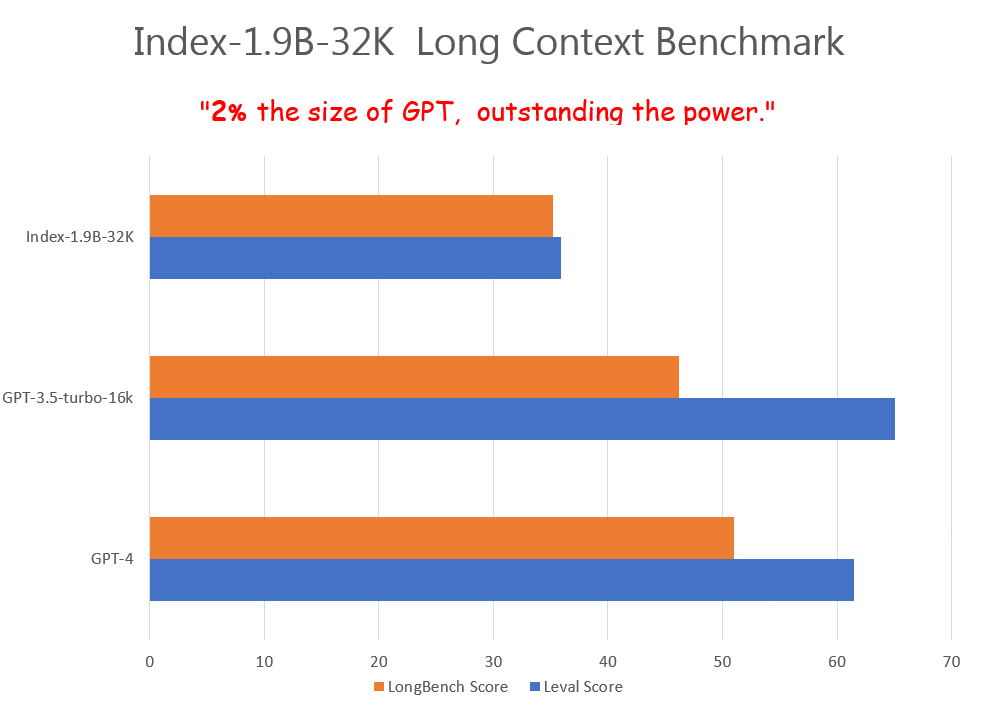
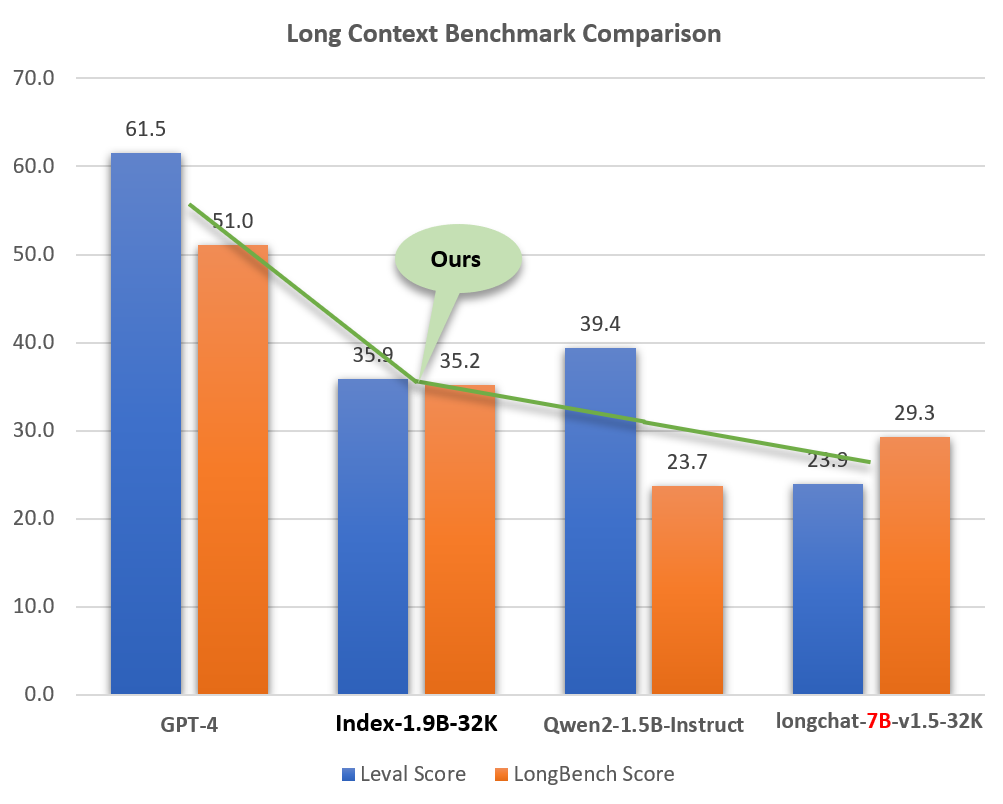
Modify the content related to Long Context (#33)
(1/4) Open-source Index-1.9B-32K; (2/4) Add Index-1.9B-32K_Long_Context_Technical_Report.md; (3/4) Upgrade and add Long Context evaluation code; (4/4) Add Demo tool for long text translation and summarization.

diff --git a/Index-1.9B-32K_Long_Context_Technical_Report.md b/Index-1.9B-32K_Long_Context_Technical_Report.md
@@ -16,12 +16,12 @@
 
 Index-1.9B-32K is a language model with only 1.9 billion parameters, yet it supports a context length of 32K (meaning this extremely small model can read documents of over 35,000 words in one go). The model has undergone Continue Pre-Training and Supervised Fine-Tuning (SFT) specifically for texts longer than 32K tokens, based on carefully curated long-text training data and self-built long-text instruction sets. The model is now open-source on both Hugging Face and ModelScope.
 
-Despite its small size (about 2% of models like GPT-4), Index-1.9B-32K demonstrates excellent long-text processing capabilities. Below are comparison results with GPT-4 and GPT-3.5-turbo-16k:
-<p align="center">
-    <img src="media/pk-all.png" alt="" width="800">
-</p>
-<p align="center"><strong> Comparison of Index-1.9B-32K with GPT-4 and other models in long-text capability</strong></p>
+Despite its small size (about 2% of models like GPT-4), Index-1.9B-32K demonstrates excellent long-text processing capabilities. 
+As shown in the figure below, our 1.9B-sized model's score even surpasses that of the 7B-sized model. Below is a comparison with models like GPT-4 and Qwen2:
 
+<p align="center"> <img src="media/pk-all.png" alt="" width="800"> 
+</p> <p align="center"><strong>Comparison of Index-1.9B-32K with GPT-4, Qwen2, and other models in Long Context capability</strong>
+</p>
 
 ## Model and Code Download:
 - Huggingface: <https://huggingface.co/IndexTeam/Index-1.9B-32K>
@@ -143,24 +143,16 @@ We built a long-text pre-training corpus based on our self-constructed massive c
 <p align="center"><strong> NeedleBench Evaluation</strong></p>
 
 
-### LongBench
-- The score of Index-1.9B-32K in the LongBench evaluation is 35.23, and the comparison with GPT-4 and GPT-3.5-turbo-16k is shown below. 
+### LongBench & LEval
+- The score of Index-1.9B-32K in the LongBench evaluation is 35.23, The score of LEval evaluation is 35.86. 
 - LongBench Introduction: [LongBench](https://github.com/THUDM/LongBench) is a long-text dataset built by THUDM, consisting of 21 sub-tasks and 4750 test cases in total. It is the first bilingual long-text dataset in Chinese and English, with an average text length of 6711 words for English and 13386 characters for Chinese.
-
-<p align="center">
-    <img src="media/longbench-pk.png" alt="" width="700">
-</p>
-<p align="center"><strong>LongBench Evaluation</strong></p>
-
-
-### LEval
-- The score of Index-1.9B-32K in the LEval evaluation is 35.86, and the comparison with GPT-4 and GPT-3.5-turbo-16k is shown below. 
 - LEval Introduction: [LEval](https://github.com/OpenLMLab/LEval) is a long-text dataset built by OpenLMLab, consisting of 18 sub-tasks in areas such as law, economics, and science.
+- As shown in the figure below, our 1.9B-sized model's score even surpasses that of the 7B-sized model. Below is a comparison with models like GPT-4 and Qwen2:
 
-<p align="center">
-    <img src="media/leval.png" alt="" width="700">
+<p align="center"> <img src="media/pk-all.png" alt="" width="800"> 
+</p> <p align="center"><strong>Comparison of Index-1.9B-32K with GPT-4, Qwen2, and other models in Long Context capability</strong>
 </p>
-<p align="center"><strong> LEval Evaluation</strong></p>
+
 
 
 ## Alignment Evaluation and Short-Text Capability
@@ -232,69 +224,74 @@ We noticed in the LLaMA 3 paper that they only used 1‰ long instructions for f
 
 ## LEval
 
-The detailed scores are shown in the table below, and the scores of GPT-4 and GPT-3.5-turbo-16k are sourced from 
+The detailed scores are shown in the table below
+- The scores for GPT-4 and longchat-7b-v1.5-32k are taken from 
 [here](https://opencompass.readthedocs.io/zh-cn/latest/advanced_guides/longeval.html#l-eval)
+- The scores for Index-1.9B-32K and Qwen2-1.5B-Instruct are based on our runs using opencompass.
 
-| **dataset**             | **Index-1.9B-32K** | **GPT-4**   | **GPT-3.5-turbo-16k** |
-|-------------------------|--------------------|-------------|-----------------------|
-| **LEval Exact Match**    | **41.54**          | **81.434**  | **68.984**            |
-| LEval_coursera           | 41.28              | 61.05       | 50                    |
-| LEval_gsm100             | 27                 | 92          | 78                    |
-| LEval_quality            | 50                 | 81.19       | 62.87                 |
-| LEval_tpo                | 65.43              | 72.93       | 74.72                 |
-| LEval_topic_retrieval    | 24                 | 100         | 79.33                 |
-| **LEval Gen (ROUGE)**    | **30.17**          | **41.539**  | **41.279**            |
-| LEval_financialqa        | 39.97              | 53.49       | 50.32                 |
-| LEval_gov_report_summ    | 40.77              | 50.84       | 50.48                 |
-| LEval_legal_contract_qa  | 14.02              | 31.23       | 27.97                 |
-| LEval_meeting_summ       | 28.54              | 31.44       | 33.54                 |
-| LEval_multidocqa         | 22.91              | 37.81       | 35.84                 |
-| LEval_narrativeqa        | 15.87              | 25.87       | 25.73                 |
-| LEval_nq                 | 49.02              | 67.36       | 66.91                 |
-| LEval_news_summ          | 27.93              | 34.52       | 40.41                 |
-| LEval_paper_assistant    | 35.35              | 42.26       | 41.76                 |
-| LEval_patent_summ        | 33.6               | 48.61       | 50.62                 |
-| LEval_review_summ        | 25.16              | 31.98       | 33.37                 |
-| LEval_scientificqa       | 34.39              | 49.76       | 48.32                 |
-| LEval_tvshow_summ        | 24.74              | 34.84       | 31.36                 |
-| **Average**              | **35.86**          | **61.49**   | **65.03**             |
+| **Dataset**                        | **Index-1.9B-32K** | **Qwen2-1.5B-Instruct** | **longchat-7b-v1.5-32k** | **GPT-4**   |
+|---------------------------------|----------------|---------------------|----------------------|---------|
+| **LEval Exact Match (Acc)**         | 41.542         | 46.412              | 21.008               | 81.434  |
+| LEval_coursera                  | 41.28          | 45.93               | 27.91                | 61.05   |
+| LEval_gsm100                    | 27             | 42                  | 5                    | 92      |
+| LEval_quality                   | 50             | 44.55               | 29.7                 | 81.19   |
+| LEval_tpo                       | 65.43          | 66.91               | 17.1                 | 72.93   |
+| LEval_topic_retrieval           | 24             | 32.67               | 25.33                | 100     |
+| **LEval Gen (ROUGE)**               | 30.17461538    | 32.33692308         | 26.80076923          | 41.53923077 |
+| LEval_financialqa               | 39.97          | 41.23               | 34.07                | 53.49   |
+| LEval_gov_report_summ           | 40.77          | 37.43               | 36.52                | 50.84   |
+| LEval_legal_contract_qa         | 14.02          | 28.07               | 13.32                | 31.23   |
+| LEval_meeting_summ              | 28.54          | 27.43               | 22.32                | 31.44   |
+| LEval_multidocqa                | 22.91          | 29.91               | 21.85                | 37.81   |
+| LEval_narrativeqa               | 15.87          | 21.03               | 16.87                | 25.87   |
+| LEval_nq                        | 49.02          | 34.48               | 35.02                | 67.36   |
+| LEval_news_summ                 | 27.93          | 28.17               | 30.33                | 34.52   |
+| LEval_paper_assistant           | 35.35          | 32.63               | 30.42                | 42.26   |
+| LEval_patent_summ               | 33.6           | 47.72               | 41.6                 | 48.61   |
+| LEval_review_summ               | 25.16          | 27.01               | 20.02                | 31.98   |
+| LEval_scientificqa              | 34.39          | 37.63               | 20.98                | 49.76   |
+| LEval_tvshow_summ               | 24.74          | 27.64               | 25.09                | 34.84   |
+| **Average**                         | 35.8583    | 39.3745      | 23.9044        | 61.4866 |
 
 
 ## LongBench
 
-The detailed scores are shown in the table below, and the scores of GPT-4 and GPT-3.5-turbo-16k are sourced from 
+The detailed scores are shown in the table below
+- The scores for GPT-4 and longchat-7b-v1.5-32k are taken from  
 [here](https://opencompass.readthedocs.io/zh-cn/latest/advanced_guides/longeval.html#longbench)
+- The scores for Index-1.9B-32K and Qwen2-1.5B-Instruct are based on our runs using opencompass.
 
-| **LongBench**        | **Index-1.9B-32K** | **GPT-4**   | **GPT-3.5-turbo-16k** |
-|----------------------|--------------------|-------------|-----------------------|
-| **Single-Document QA** | **37.305**         | **48.37**   | **46.37**             |
-| NarrativeQA          | 19.1               | 31.20       | 25.79                 |
-| Qasper               | 32.47              | 42.77       | 43.40                 |
-| MultiFieldQA-en      | 43.23              | 55.10       | 54.35                 |
-| MultiFieldQA-zh      | 54.42              | 64.40       | 61.92                 |
-| **Multi-Document QA**| **25.9375**         | **50.89**   | **37.77**             |
-| HotpotQA             | 33.83              | 59.85       | 52.49                 |
-| 2WikiMQA             | 26.87              | 67.52       | 41.70                 |
-| Musique              | 16.21              | 37.53       | 27.50                 |
-| DuReader (zh)        | 26.84              | 38.65       | 29.37                 |
-| **Summarization**    | **17.46**           | **25.13**   | **24.38**             |
-| GovReport            | 17.3               | 32.09       | 29.92                 |
-| QMSum                | 17.97              | 24.37       | 23.67                 |
-| Multi_news           | 15.66              | 28.52       | 27.05                 |
-| VCSUM (zh)           | 18.91              | 15.54       | 16.88                 |
-| **Few-shot Learning**| **51.0425**         | **64.63**   | **60.98**             |
-| TREC                 | 59.5               | 78.50       | 73.50                 |
-| TriviaQA             | 83.87              | 92.19       | 92.75                 |
-| SAMSum               | 34.3               | 46.32       | 43.16                 |
-| LSHT (zh)            | 26.5               | 41.50       | 34.50                 |
-| **Synthetic Tasks**  | **15.3333**         | **59.83**   | **52.83**             |
-| Passage Count        | 0                  | 8.50        | 3.00                  |
-| PassageRetrieval-en  | 24                 | 75.00       | 73.00                 |
-| PassageRetrieval-zh  | 22                 | 96.00       | 82.50                 |
-| **Code Completion**  | **64.335**          | **57.34**   | **54.72**             |
-| LCC                  | 66.4               | 59.25       | 53.49                 |
-| RepoBench-P          | 62.27              | 55.42       | 55.95                 |
-| **Average**          | **35.23**           | **51.03**   | **46.17**             |
+| **LongBench**              | **Index-1.9B-32K** | **Qwen2-1.5B-Instruct** | **longchat-7b-v1.5-32k** | **GPT-4**   |
+|------------------------|----------------|---------------------|----------------------|---------|
+| **Single-Document QA**      | 37.305         | 32.72               | 31.625               | 48.3675 |
+| NarrativeQA             | 19.1           | 15.93               | 19.19                | 31.2    |
+| Qasper                 | 32.47          | 29.3                | 30.36                | 42.77   |
+| MultiFieldQA-en         | 43.23          | 40.74               | 44.6                 | 55.1    |
+| MultiFieldQA-zh         | 54.42          | 44.91               | 32.35                | 64.4    |
+| **Multi-Document QA**       | 25.9375        | 24.04               | 22.54                | 50.8875 |
+| HotpotQA               | 33.83          | 30.09               | 34.43                | 59.85   |
+| 2WikiMQA               | 26.87          | 22.57               | 23.06                | 67.52   |
+| Musique                | 16.21          | 15.12               | 12.42                | 37.53   |
+| DuReader (zh)           | 26.84          | 28.38               | 20.25                | 38.65   |
+| **Summarization**           | 17.46          | 17.015              | 23.025               | 25.13   |
+| GovReport              | 17.3           | 18.63               | 29.83                | 32.09   |
+| QMSum                  | 17.97          | 18.41               | 22.71                | 24.37   |
+| Multi_news             | 15.66          | 15.19               | 26.1                 | 28.52   |
+| VCSUM (zh)             | 18.91          | 15.83               | 13.46                | 15.54   |
+| **Few-shot Learning**       | 51.0425        | 30.6725             | 34.6625              | 64.6275 |
+| TREC                   | 59.5           | 8                   | 29.23                | 78.5    |
+| TriviaQA               | 83.87          | 74.46               | 64.19                | 92.19   |
+| SAMSum                 | 34.3           | 29.23               | 25.23                | 46.32   |
+| LSHT (zh)              | 26.5           | 11                  | 20                   | 41.5    |
+| **Synthetic Tasks**         | 15.333    | 7.98                | 12.167          | 59.833 |
+| Passage Count           | 0              | 5                   | 1                    | 8.5     |
+| PassageRetrieval-en     | 24             | 11.94               | 20.5                 | 75      |
+| PassageRetrieval-zh     | 22             | 7                   | 15                   | 96      |
+| **Code Completion**         | 64.335         | 29.91               | 51.82                | 57.335  |
+| LCC                    | 66.4           | 34.14               | 51.46                | 59.25   |
+| RepoBench-P            | 62.27          | 25.68               | 52.18                | 55.42   |
+| **Average**             | 35.2356   | 23.7229        | 29.3065      | 51.0301 |
+
 
 
 ## Comparison of Other Long Context Techniques: Two-Stage Training, Dynamic NTK, Naive Extrapolation

diff --git a/Index-1.9B-32K长上下文技术报告.md b/Index-1.9B-32K长上下文技术报告.md
@@ -18,11 +18,11 @@
 
 Index-1.9B-32K 是一个仅有 1.9B 参数、却具备 32K 上下文长度的语言模型（这意味着，这个超小精灵可以一次性读完 3.5 万字以上的文档）。该模型专门针对 32K 以上的长文本进行了持续预训练（Continue Pre-Train）和监督微调（SFT），主要基于我们精心清洗的长文本预训练语料、自建的长文本指令集进行训练。目前，我们已在 Hugging Face 和 ModelScope 上同步开源。
 
-Index-1.9B-32K 以极小的模型体积（约为 GPT-4 等模型的 2%），实现了出色的长文本处理能力。以下为与 GPT-4、GPT-3.5-turbo-16k 的对比评测结果：
+Index-1.9B-32K 以极小的模型体积（约为 GPT-4 等模型的 2%），实现了出色的长文本处理能力。如下图，我们1.9B尺寸的模型分数甚至远超7B尺寸的模型。以下为与 GPT-4、Qwen2等模型的对比：
 <p align="center">
     <img src="media/pk-all.png" alt="" width="800">
 </p>
-<p align="center"><strong>Index-1.9B-32K与GPT-4等模型的长文本能力对比 </strong></p>
+<p align="center"><strong>Index-1.9B-32K与GPT-4、Qwen2等模型长文本能力对比 </strong></p>
 
 
 
@@ -143,23 +143,17 @@ Index-1.9B-32K的训练流程如下：
 </p>
 <p align="center"><strong>大海捞针评测 </strong></p>
 
-### LongBench
-- Index-1.9B-32K在 LongBench 评测上的得分为 35.23，与 GPT-4、 GPT-3.5-turbo-16k 的性能对比如下图。[详细分数请点击](#评测分数明细)
+### LongBench和LEval
+- Index-1.9B-32K在 LongBench 评测上的得分为 35.23，在 LEval 评测上的得分为 35.86。[详细分数请点击](#评测分数明细)
 - LongBench简介：[LongBench](https://github.com/THUDM/LongBench)是由 THUDM 构建的长文本数据集，由 21 个子任务构成，总计 4750 条测例。该数据集是第一个包含中英双语的长文本数据集，其中英语文本长度平均为 6711 词，中文文本平均长度为 13386 字。
-
-<p align="center">
-    <img src="media/longbench-pk.png" alt="" width="700">
-</p>
-<p align="center"><strong>LongBench 评测 </strong></p>
-
-### LEval
-- Index-1.9B-32K在 LEval 评测上的得分为 35.86，与 GPT-4、 GPT-3.5-turbo-16k 的性能对比如下图。[详细分数请点击](#评测分数明细)
 - LEval简介：[LEval](https://github.com/OpenLMLab/LEval)是由 OpenLMLab 构建的一个长文本数据集，由 18 个子任务组成，其中包含法律、经济、科技等各个领域的文本。
-
+- 如下图，我们1.9B尺寸的模型分数甚至远超7B尺寸的模型：
 <p align="center">
-    <img src="media/leval.png" alt="" width="700">
+    <img src="media/pk-all.png" alt="" width="800">
 </p>
-<p align="center"><strong> LEval 评测</strong></p>
+<p align="center"><strong>Index-1.9B-32K与GPT-4、Qwen2等模型长文本能力对比 </strong></p>
+
+
 
 ## Alignment评测和短能力
 - 虽然Index-1.9B-32K的长文本能力获得极其优异的结果，但短文本能力有所下降。
@@ -227,69 +221,74 @@ Index-1.9B-32K的训练流程如下：
 
 ## LEval 
 
-详细得分如下表，GPT-4和GPT-3.5-turbo-16k的得分摘自
+详细得分如下表：
+- GPT-4和longchat-7b-v1.5-32k的得分摘自
 [这里](https://opencompass.readthedocs.io/zh-cn/latest/advanced_guides/longeval.html#l-eval)
+- Index-1.9B-32K、Qwen2-1.5B-Instruct的得分是我们基于opencompass运行得出
 
-| **dataset**             | **Index-1.9B-32K** | **GPT-4**   | **GPT-3.5-turbo-16k** |
-|-------------------------|--------------------|-------------|-----------------------|
-| **LEval Exact Match**    | **41.54**          | **81.434**  | **68.984**            |
-| LEval_coursera           | 41.28              | 61.05       | 50                    |
-| LEval_gsm100             | 27                 | 92          | 78                    |
-| LEval_quality            | 50                 | 81.19       | 62.87                 |
-| LEval_tpo                | 65.43              | 72.93       | 74.72                 |
-| LEval_topic_retrieval    | 24                 | 100         | 79.33                 |
-| **LEval Gen (ROUGE)**    | **30.17**          | **41.539**  | **41.279**            |
-| LEval_financialqa        | 39.97              | 53.49       | 50.32                 |
-| LEval_gov_report_summ    | 40.77              | 50.84       | 50.48                 |
-| LEval_legal_contract_qa  | 14.02              | 31.23       | 27.97                 |
-| LEval_meeting_summ       | 28.54              | 31.44       | 33.54                 |
-| LEval_multidocqa         | 22.91              | 37.81       | 35.84                 |
-| LEval_narrativeqa        | 15.87              | 25.87       | 25.73                 |
-| LEval_nq                 | 49.02              | 67.36       | 66.91                 |
-| LEval_news_summ          | 27.93              | 34.52       | 40.41                 |
-| LEval_paper_assistant    | 35.35              | 42.26       | 41.76                 |
-| LEval_patent_summ        | 33.6               | 48.61       | 50.62                 |
-| LEval_review_summ        | 25.16              | 31.98       | 33.37                 |
-| LEval_scientificqa       | 34.39              | 49.76       | 48.32                 |
-| LEval_tvshow_summ        | 24.74              | 34.84       | 31.36                 |
-| **Average**              | **35.86**          | **61.49**   | **65.03**             |
+| **Dataset**                        | **Index-1.9B-32K** | **Qwen2-1.5B-Instruct** | **longchat-7b-v1.5-32k** | **GPT-4**   |
+|---------------------------------|----------------|---------------------|----------------------|---------|
+| **LEval Exact Match (Acc)**         | 41.542         | 46.412              | 21.008               | 81.434  |
+| LEval_coursera                  | 41.28          | 45.93               | 27.91                | 61.05   |
+| LEval_gsm100                    | 27             | 42                  | 5                    | 92      |
+| LEval_quality                   | 50             | 44.55               | 29.7                 | 81.19   |
+| LEval_tpo                       | 65.43          | 66.91               | 17.1                 | 72.93   |
+| LEval_topic_retrieval           | 24             | 32.67               | 25.33                | 100     |
+| **LEval Gen (ROUGE)**               | 30.17461538    | 32.33692308         | 26.80076923          | 41.53923077 |
+| LEval_financialqa               | 39.97          | 41.23               | 34.07                | 53.49   |
+| LEval_gov_report_summ           | 40.77          | 37.43               | 36.52                | 50.84   |
+| LEval_legal_contract_qa         | 14.02          | 28.07               | 13.32                | 31.23   |
+| LEval_meeting_summ              | 28.54          | 27.43               | 22.32                | 31.44   |
+| LEval_multidocqa                | 22.91          | 29.91               | 21.85                | 37.81   |
+| LEval_narrativeqa               | 15.87          | 21.03               | 16.87                | 25.87   |
+| LEval_nq                        | 49.02          | 34.48               | 35.02                | 67.36   |
+| LEval_news_summ                 | 27.93          | 28.17               | 30.33                | 34.52   |
+| LEval_paper_assistant           | 35.35          | 32.63               | 30.42                | 42.26   |
+| LEval_patent_summ               | 33.6           | 47.72               | 41.6                 | 48.61   |
+| LEval_review_summ               | 25.16          | 27.01               | 20.02                | 31.98   |
+| LEval_scientificqa              | 34.39          | 37.63               | 20.98                | 49.76   |
+| LEval_tvshow_summ               | 24.74          | 27.64               | 25.09                | 34.84   |
+| **Average**                         | 35.8583    | 39.3745      | 23.9044        | 61.4866 |
+
 
 
 ## LongBench
 
-详细得分如下表，GPT-4和GPT-3.5-turbo-16k的得分摘自
+- GPT-4和longchat-7b-v1.5-32k的得分摘自
 [这里](https://opencompass.readthedocs.io/zh-cn/latest/advanced_guides/longeval.html#longbench)
+- Index-1.9B-32K、Qwen2-1.5B-Instruct的得分是我们基于opencompass运行得出
 
-| **LongBench**        | **Index-1.9B-32K** | **GPT-4**   | **GPT-3.5-turbo-16k** |
-|----------------------|--------------------|-------------|-----------------------|
-| **Single-Document QA** | **37.305**         | **48.37**   | **46.37**             |
-| NarrativeQA          | 19.1               | 31.20       | 25.79                 |
-| Qasper               | 32.47              | 42.77       | 43.40                 |
-| MultiFieldQA-en      | 43.23              | 55.10       | 54.35                 |
-| MultiFieldQA-zh      | 54.42              | 64.40       | 61.92                 |
-| **Multi-Document QA**| **25.9375**         | **50.89**   | **37.77**             |
-| HotpotQA             | 33.83              | 59.85       | 52.49                 |
-| 2WikiMQA             | 26.87              | 67.52       | 41.70                 |
-| Musique              | 16.21              | 37.53       | 27.50                 |
-| DuReader (zh)        | 26.84              | 38.65       | 29.37                 |
-| **Summarization**    | **17.46**           | **25.13**   | **24.38**             |
-| GovReport            | 17.3               | 32.09       | 29.92                 |
-| QMSum                | 17.97              | 24.37       | 23.67                 |
-| Multi_news           | 15.66              | 28.52       | 27.05                 |
-| VCSUM (zh)           | 18.91              | 15.54       | 16.88                 |
-| **Few-shot Learning**| **51.0425**         | **64.63**   | **60.98**             |
-| TREC                 | 59.5               | 78.50       | 73.50                 |
-| TriviaQA             | 83.87              | 92.19       | 92.75                 |
-| SAMSum               | 34.3               | 46.32       | 43.16                 |
-| LSHT (zh)            | 26.5               | 41.50       | 34.50                 |
-| **Synthetic Tasks**  | **15.3333**         | **59.83**   | **52.83**             |
-| Passage Count        | 0                  | 8.50        | 3.00                  |
-| PassageRetrieval-en  | 24                 | 75.00       | 73.00                 |
-| PassageRetrieval-zh  | 22                 | 96.00       | 82.50                 |
-| **Code Completion**  | **64.335**          | **57.34**   | **54.72**             |
-| LCC                  | 66.4               | 59.25       | 53.49                 |
-| RepoBench-P          | 62.27              | 55.42       | 55.95                 |
-| **Average**          | **35.23**           | **51.03**   | **46.17**             |
+| **LongBench**              | **Index-1.9B-32K** | **Qwen2-1.5B-Instruct** | **longchat-7b-v1.5-32k** | **GPT-4**   |
+|------------------------|----------------|---------------------|----------------------|---------|
+| **Single-Document QA**      | 37.305         | 32.72               | 31.625               | 48.3675 |
+| NarrativeQA             | 19.1           | 15.93               | 19.19                | 31.2    |
+| Qasper                 | 32.47          | 29.3                | 30.36                | 42.77   |
+| MultiFieldQA-en         | 43.23          | 40.74               | 44.6                 | 55.1    |
+| MultiFieldQA-zh         | 54.42          | 44.91               | 32.35                | 64.4    |
+| **Multi-Document QA**       | 25.9375        | 24.04               | 22.54                | 50.8875 |
+| HotpotQA               | 33.83          | 30.09               | 34.43                | 59.85   |
+| 2WikiMQA               | 26.87          | 22.57               | 23.06                | 67.52   |
+| Musique                | 16.21          | 15.12               | 12.42                | 37.53   |
+| DuReader (zh)           | 26.84          | 28.38               | 20.25                | 38.65   |
+| **Summarization**           | 17.46          | 17.015              | 23.025               | 25.13   |
+| GovReport              | 17.3           | 18.63               | 29.83                | 32.09   |
+| QMSum                  | 17.97          | 18.41               | 22.71                | 24.37   |
+| Multi_news             | 15.66          | 15.19               | 26.1                 | 28.52   |
+| VCSUM (zh)             | 18.91          | 15.83               | 13.46                | 15.54   |
+| **Few-shot Learning**       | 51.0425        | 30.6725             | 34.6625              | 64.6275 |
+| TREC                   | 59.5           | 8                   | 29.23                | 78.5    |
+| TriviaQA               | 83.87          | 74.46               | 64.19                | 92.19   |
+| SAMSum                 | 34.3           | 29.23               | 25.23                | 46.32   |
+| LSHT (zh)              | 26.5           | 11                  | 20                   | 41.5    |
+| **Synthetic Tasks**         | 15.333    | 7.98                | 12.167          | 59.833 |
+| Passage Count           | 0              | 5                   | 1                    | 8.5     |
+| PassageRetrieval-en     | 24             | 11.94               | 20.5                 | 75      |
+| PassageRetrieval-zh     | 22             | 7                   | 15                   | 96      |
+| **Code Completion**         | 64.335         | 29.91               | 51.82                | 57.335  |
+| LCC                    | 66.4           | 34.14               | 51.46                | 59.25   |
+| RepoBench-P            | 62.27          | 25.68               | 52.18                | 55.42   |
+| **Average**             | 35.2356   | 23.7229        | 29.3065      | 51.0301 |
+
 
 
 ## 其他Long Context技术研究对比：基于两阶段训练、Dynamic NTK、Naive Extrapolation

diff --git a/README.md b/README.md
@@ -151,12 +151,12 @@ curl http://127.0.0.1:8010/v1/chat/completions \
 ## Model Overview
 Index-1.9B-32K is a language model with only 1.9 billion parameters, yet it supports a context length of 32K (meaning this extremely small model can read documents of over 35,000 words in one go). The model has undergone Continue Pre-Training and Supervised Fine-Tuning (SFT) specifically for texts longer than 32K tokens, based on carefully curated long-text training data and self-built long-text instruction sets. The model is now open-source on both Hugging Face and ModelScope.
 
-**Despite its small size (about 2% of models like GPT-4), Index-1.9B-32K demonstrates excellent long-text processing capabilities**. Below are comparison results with GPT-4 and GPT-3.5-turbo-16k:
+Despite its small size (about 2% of models like GPT-4), Index-1.9B-32K demonstrates excellent long-text processing capabilities. 
+As shown in the figure below, our 1.9B-sized model's score even surpasses that of the 7B-sized model. Below is a comparison with models like GPT-4 and Qwen2:
 
-<p align="center">
-    <img src="media/pk-all.png" alt="" width="800">
+<p align="center"> <img src="media/pk-all.png" alt="" width="800"> 
+</p> <p align="center"><strong>Comparison of Index-1.9B-32K with GPT-4, Qwen2, and other models in Long Context capability</strong>
 </p>
-<p align="center"><strong>Comparison of Index-1.9B-32K with GPT-4 and other models in long-text capability</strong></p>
 
 In a 32K-length needle-in-a-haystack test, Index-1.9B-32K achieved excellent results, as shown in the figure below. The only exception was a small yellow spot (91.08 points) in the region of (32K length, 10% depth), with all other areas performing excellently in mostly green zones.
 <p align="center">

diff --git a/README_zh.md b/README_zh.md
@@ -154,12 +154,11 @@ curl http://127.0.0.1:8010/v1/chat/completions \
 ## 模型简介
 Index-1.9B-32K 是一个仅有 1.9B 参数、却具备 32K 上下文长度的语言模型（这意味着，这个超小精灵可以一次性读完 3.5 万字以上的文档）。该模型专门针对 32K 以上的长文本进行了持续预训练（Continue Pre-Train）和监督微调（SFT），主要基于我们精心清洗的长文本预训练语料、自建的长文本指令集进行训练。目前，我们已在 Hugging Face 和 ModelScope 上同步开源。
 
-Index-1.9B-32K **以极小的模型体积（体积约为GPT-4等模型的2%）实现了出色的长文本处理能力**。以下为与 GPT-4、GPT-3.5-turbo-16k 的对比评测结果：
-
+Index-1.9B-32K 以极小的模型体积（约为 GPT-4 等模型的 2%），实现了出色的长文本处理能力。如下图，我们1.9B尺寸的模型分数甚至远超7B尺寸的模型。以下为与 GPT-4、Qwen2等模型的对比：
 <p align="center">
-    <img src="media/pk-all.png" alt="" width="700">
+    <img src="media/pk-all.png" alt="" width="800">
 </p>
-<p align="center"><strong>Index-1.9B-32K与GPT-4等模型的长文本能力对比</strong></p>
+<p align="center"><strong>Index-1.9B-32K与GPT-4、Qwen2等模型长文本能力对比 </strong></p>
 
 
 Index-1.9B-32K在32K长度的大海捞针测试下，评测结果优异，如下图，评测结果只在（32K 长度，%10 深度）区域有一处黄斑（91.08分），其他范围表现优异，几乎全绿。